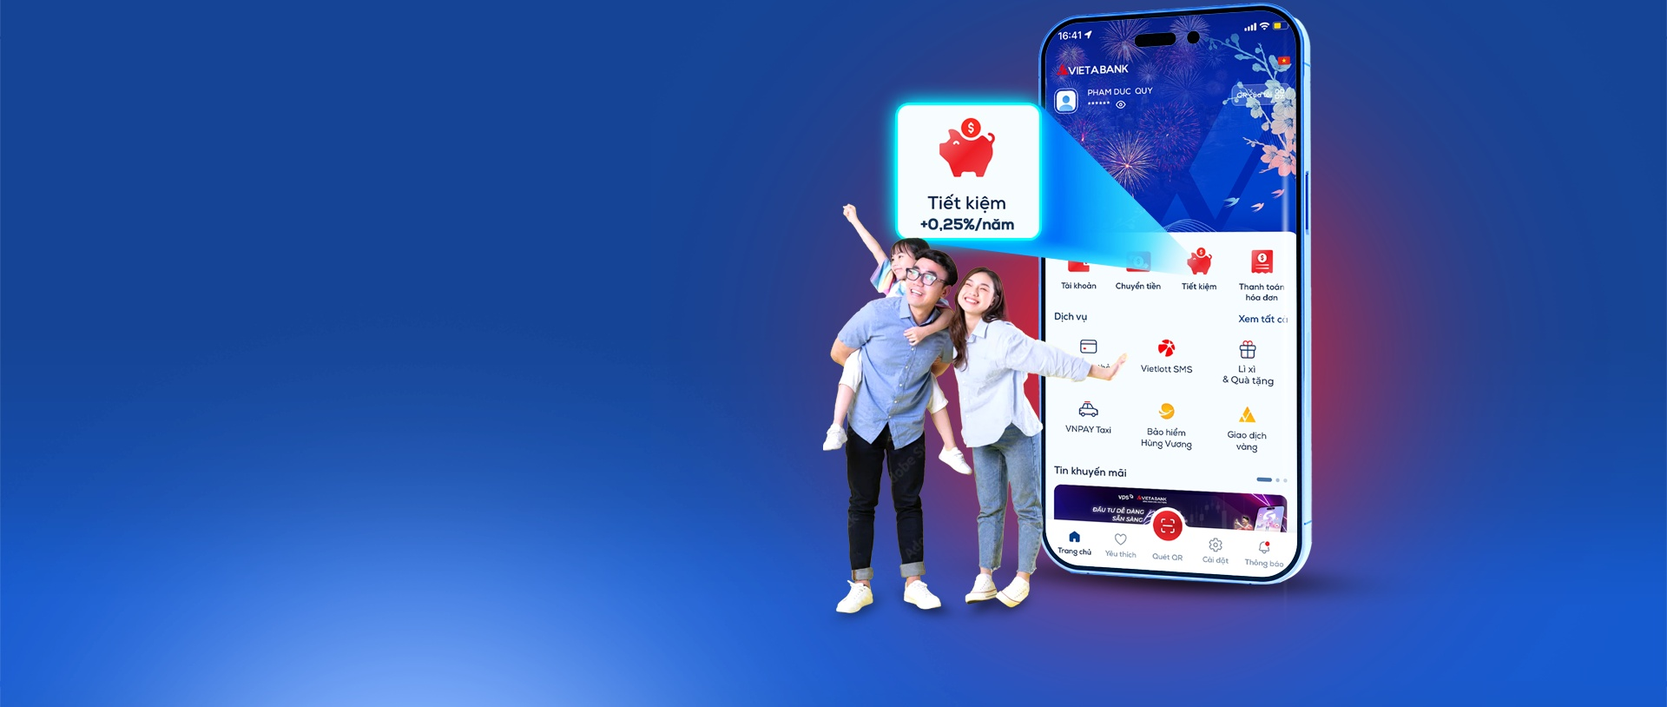
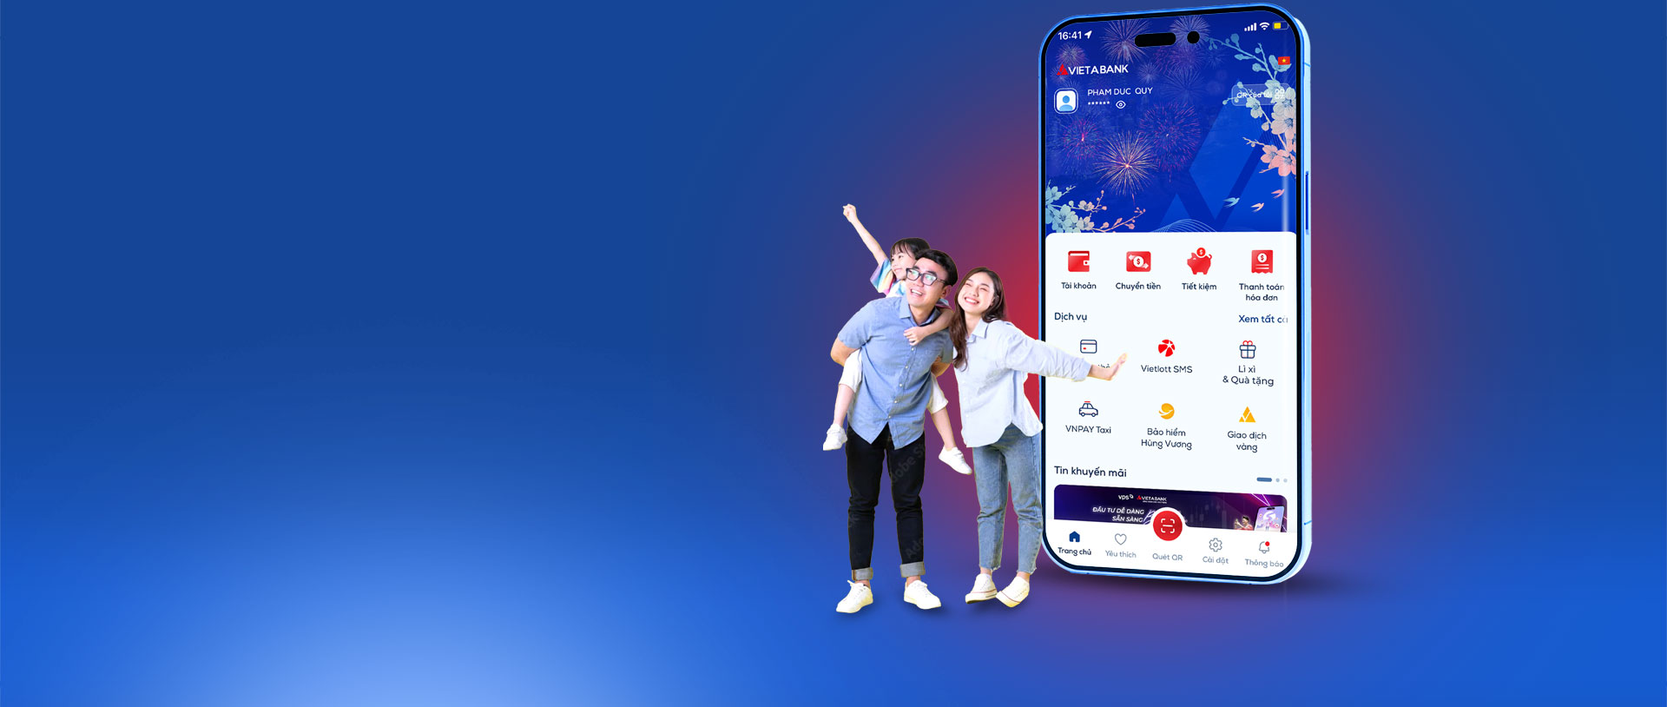
update

Changed region(s): [[0.5312, 0.0921, 0.7188, 0.3993], [0.75, 0.1536, 0.7812, 0.2457], [0.75, 0.0307, 0.7812, 0.0921]]

diff --git a/css/style.min.css b/css/style.min.css
@@ -1,1 +1,1 @@
-html,body,div,span,applet,object,iframe,h1,h2,h3,h4,h5,h6,p,blockquote,pre,a,abbr,acronym,address,big,cite,code,del,dfn,em,font,img,ins,kbd,q,s,samp,small,strike,strong,sub,sup,tt,var,b,u,i,center,dl,dt,dd,ol,ul,li,fieldset,form,label,legend,table,caption,tbody,tfoot,thead,tr,th,td{margin:0;padding:0;border:0;outline:0;font-size:100%;vertical-align:baseline;background:rgba(0,0,0,0)}body{line-height:1.3;color:#00003c}ol,ul{list-style:none}blockquote,q{quotes:none}blockquote:before,blockquote:after,q:before,q:after{content:"";content:none}:focus{outline:0}ins{text-decoration:none}del{text-decoration:line-through}table{border-collapse:collapse;border-spacing:0}a{text-decoration:none}.clearfix:after{content:".";display:block;clear:both;visibility:hidden;line-height:0;height:0}.clearfix{clear:both;display:block}html[xmlns] .clearfix{display:block}* html .clearfix{height:1%}*{box-sizing:border-box}.container{width:100%;padding:0 15px;margin:auto}@media only screen and (min-width: 576px){.container{max-width:540px}}@media only screen and (min-width: 768px){.container{max-width:720px}}@media only screen and (min-width: 992px){.container{max-width:960px}}@media only screen and (min-width: 1200px){.container{max-width:1290px}}html,body{font-size:15px;font-family:"SVN-Gilroy"}@media(max-width: 991px){html,body{font-size:13px}}@media(max-width: 575px){html,body{font-size:15px}}@media(max-width: 430px){html,body{font-size:14px}}input{font-family:"SVN-Gilroy"}@font-face{font-family:"SVN-Gilroy";src:url("../fonts/SVN-Gilroy.woff2") format("woff2"),url("../fonts/SVN-Gilroy.woff") format("woff");font-weight:normal;font-style:normal;font-display:swap}@font-face{font-family:"SVN-Gilroy";src:url("../fonts/SVN-GilroyItalic.woff2") format("woff2"),url("../fonts/SVN-GilroyItalic.woff") format("woff");font-weight:normal;font-style:italic;font-display:swap}@font-face{font-family:"SVN-Gilroy";src:url("../fonts/SVN-GilroyMedium.woff2") format("woff2"),url("../fonts/SVN-GilroyMedium.woff") format("woff");font-weight:500;font-style:normal;font-display:swap}@font-face{font-family:"SVN-Gilroy";src:url("../fonts/SVN-GilroyXBold.woff2") format("woff2"),url("../fonts/SVN-GilroyXBold.woff") format("woff");font-weight:bold;font-style:normal;font-display:swap}.button-1{background-color:red;text-transform:uppercase;color:#fff;padding:10px 30px;border-radius:55px;font-weight:bold;width:-moz-fit-content;width:fit-content;margin:0 auto;border:2px solid #00eaf3;box-shadow:0 0 10px 0 #00fffc;cursor:pointer}@media(max-width: 767px){.button-1{padding:7px 20px}}@keyframes opac{from{opacity:0}to{opacity:1}}@keyframes modalbox{0%{top:-250px;opacity:0}100%{top:0;opacity:1}}section[id]{scroll-margin-top:74px}.header{padding:20px 0;position:fixed;top:0;left:0;width:100%;transition:all .2s ease-in-out;z-index:2}.header.fixed{background-color:#004da9;box-shadow:0 0px 5px 0 #c3c3c3}.header__inner{display:flex;align-items:center;justify-content:space-between}.header__logo{width:100%;max-width:175px}.header__menu{display:flex;align-items:center;font-size:1.1rem;text-align:center}.header__item{padding:0 20px;color:#fff;transition:all .2s ease-in-out}.header__item.active,.header__item:hover{font-weight:600}.header__icon{display:none}.header img{width:100%;height:auto;display:block}@media(max-width: 1199px){.header__logo{max-width:135px}.header__menu{font-size:.9rem}.header__item{padding:0 15px}}@media(max-width: 991px){.header__logo{max-width:120px}.header__item{padding:0 8px}}@media(max-width: 767px){.header__logo{max-width:135px}.header__menu{position:fixed;top:0;right:0;background-color:#002f65;height:100vh;width:280px;flex-direction:column;text-align:left;font-size:1rem;overflow-y:auto;transform:translateX(100%);transition:all .5s ease-in-out;z-index:1}.header__menu.active{transform:translateX(0)}.header__item{display:block;width:100%;padding:10px}.header__item br{display:none}.header__icon{display:block;width:25px}}@media(max-width: 430px){.header__menu{width:230px}}.backdrop{background-color:#000;opacity:.5;width:100vw;height:100vh;position:fixed;top:0;left:0;display:none}.backdrop.show{display:block}.screen1{background:url("../images/page1-bg.jpg") no-repeat top;background-size:1920px;min-height:802px;padding-top:80px;display:flex;align-items:center}.screen1__box{width:45%;text-align:center}.screen1__sub{font-size:1.1rem;color:#fff}.screen1__sub span{font-weight:bold}.screen1__title{font-size:3rem;text-transform:uppercase;color:#fbdf84;font-weight:500;line-height:normal;margin-top:10px;margin-bottom:10px}.screen1__title span{font-weight:bold}.screen1__text{color:#fff;font-size:1.5rem;margin-bottom:15px;text-transform:uppercase}.screen1__text span{font-weight:bold}.screen1__note{font-style:italic;font-size:1rem;margin-top:5px}.screen1__light{display:flex;align-items:center;justify-content:center;margin:15px 0}.screen1__item{color:#1e4485;background-color:#fff;text-transform:uppercase;width:100%;max-width:200px;padding:8px 10px;margin:0 10px;text-align:center;font-weight:bold;border-radius:6px;box-shadow:0 0 10px 0 #00fffc}@media(max-width: 1199px){.screen1{background-size:1199px;min-height:501px}.screen1__title{font-size:2rem}}@media(max-width: 991px){.screen1{background-size:991px;min-height:414px}.screen1__box{width:50%}.screen1__title{margin-top:0px;margin-bottom:5px;font-size:1.7rem}.screen1__text{font-size:1.2rem;margin-bottom:5px}.screen1__sub br{display:none}}@media(max-width: 767px){.screen1{background-size:900px;min-height:376px}.screen1__box{width:55%}.screen1__title{font-size:1.2rem}.screen1__text{font-size:1.1rem}.screen1__item{margin:0 5px;padding:8px 5px}}@media(max-width: 575px){.screen1{background:url("../images/page1-mb-bg.jpg") no-repeat top;background-size:575px;min-height:701px;display:block;padding-top:70px}.screen1__box{width:100%;display:flex;flex-direction:column;height:620px}.screen1__title{font-size:2rem}.screen1__text{font-size:1.3rem}.screen1__note{margin-top:10px}.screen1__light{flex-wrap:wrap;width:50%;margin:50px 0 30px}.screen1__item{margin:5px 0;border-radius:55px;max-width:170px}.screen1__btn{width:50%}}@media(max-width: 430px){.screen1{background-size:430px;min-height:524px}.screen1__box{height:450px}}.screen2{background:url("../images/page2-bg.jpg") no-repeat top;background-size:1920px;min-height:538px;display:flex;align-items:center}.screen2__inner{display:flex;align-items:flex-start}.screen2__item{width:50%;margin:0 15px;border-radius:8px;border:2px solid #00eaf3;box-shadow:0 0 10px 0 #00fffc;overflow:hidden}.screen2__item:hover .screen2__top{background-color:#ec2028}.screen2__top{background-color:#154596;height:150px;display:flex;align-items:center;justify-content:center;transition:all .3s ease}.screen2__img{width:60%;margin:0 auto}.screen2__content{background-color:#fff;padding:20px}.screen2__title{font-size:1.1rem;color:#1e4485;font-weight:bold;text-transform:uppercase;text-align:center;margin-bottom:15px}.screen2__text{text-align:center;margin-bottom:20px}.screen2 img{width:100%;height:auto;display:block}@media(max-width: 1199px){.screen2{background-size:1199px;min-height:336px}.screen2__top{height:100px}.screen2__content{padding:10px}.screen2__title{margin-bottom:10px}.screen2__text{margin-bottom:10px}}@media(max-width: 991px){.screen2{background-size:991px;min-height:278px}.screen2__top{height:80px}}@media(max-width: 767px){.screen2{background-size:900px;min-height:252px}.screen2__title{margin-bottom:5px}.screen2__item{margin:0 5px}.screen2__top{height:60px}.screen2__content{padding:5px}.screen2__textMain{font-size:1.8rem}.screen2__textSide{font-size:1.5rem;padding-top:0}}@media(max-width: 575px){.screen2{background:url("../images/page2-mb-bg.jpg") no-repeat top;background-color:#005cca;background-size:575px;min-height:795px;display:block;padding-top:20px}.screen2__inner{flex-direction:column}.screen2__item{width:100%;margin:10px 0}.screen2__box{width:100%;margin-left:0;display:flex;flex-direction:column;justify-content:space-between;height:730px}.screen2__top{height:150px}.screen2__img{width:70%}.screen2__content{padding:15px}}@media(max-width: 430px){.screen2{background-size:430px;min-height:595px}.screen2__box{height:550px}.screen2__top{height:80px}.screen2__img{width:55%}.screen2__item{margin:6px 0}}.screen3{background:url("../images/page3-bg.jpg") no-repeat top;background-size:1920px;min-height:814px;display:flex;align-items:center}.screen3__box{width:45%;text-align:center}.screen3__sub{font-size:1.1rem;color:#fff;margin-bottom:30px}.screen3__sub span{font-weight:bold}.screen3__title{display:flex;align-items:flex-start;justify-content:center;margin:20px 0}.screen3__img{width:80%;margin:0 auto 15px}.screen3__text{margin-left:10px;text-align:left}.screen3__textMain{color:red;text-transform:uppercase;font-size:2.5rem}.screen3__textMain span{font-weight:bold}.screen3__textSide{font-size:2rem;padding-top:5px}.screen3__textSide span{font-weight:500}.screen3__list{display:flex;justify-content:center}.screen3__item{background-color:#fff;border-radius:8px;width:calc(33.3% - 10px);margin:0 5px;padding:10px;text-align:center;border:2px solid #00eaf3;box-shadow:0 0 10px 0 #00fffc}.screen3__item span{color:red;font-weight:bold}.screen3__btn{margin-top:40px}.screen3__note{font-style:italic;font-size:1rem;margin-top:10px}.screen3 img{width:100%;height:auto;display:block}@media(max-width: 1199px){.screen3{background-size:1199px;min-height:508px}.screen3__box{width:50%}.screen3__btn{margin-top:20px}}@media(max-width: 991px){.screen3{background-size:991px;min-height:420px}.screen3__title{margin:10px 0}.screen3__img{margin-bottom:5px}.screen3__item{padding:5px}.screen3__btn{margin-top:20px}.screen3__sub{margin-bottom:10px}}@media(max-width: 767px){.screen3{background-size:900px;min-height:344px}.screen3__sub{font-size:1rem;margin-bottom:5px}.screen3__title{margin:5px 0}.screen3__img{width:70%}.screen3__text{margin-left:5px}.screen3__textMain{font-size:1.8rem}.screen3__textSide{font-size:1.5rem;padding-top:0}.screen3__btn{margin-top:10px}.screen3__note{margin-top:5px}}@media(max-width: 575px){.screen3{background:url("../images/page3-mb-bg.jpg") no-repeat top;background-size:575px;min-height:1117px;display:block;padding-top:20px}.screen3__box{width:100%;display:flex;flex-direction:column;justify-content:space-between;height:1040px}.screen3__title{margin-top:20px}.screen3__text{margin-left:10px}.screen3__list{flex-wrap:wrap}.screen3__item{padding:10px;width:calc(50% - 10px);margin:5px}.screen3__btn{margin-top:50px}}@media(max-width: 430px){.screen3{background-size:430px;min-height:835px;padding-top:40px}.screen3__box{height:790px}.screen3__btn{margin-top:15px}}.screen4{background-image:url("../images/page4-bg.jpg");background-repeat:no-repeat;background-position:top;background-size:1920px;background-color:#f7eae4;height:765px;display:flex;align-items:center}.screen4__box{width:40%;text-align:center;margin-left:auto}.screen4__sub{font-size:1.1rem;color:#fff;margin-bottom:30px}.screen4__sub span{font-weight:bold}.screen4__title{display:flex;align-items:center;justify-content:center;margin:20px 0}.screen4__img{width:75%;margin:0 auto 15px}.screen4__text{margin-left:10px;text-align:left}.screen4__textMain{color:red;text-transform:uppercase;font-size:2.5rem}.screen4__textMain span{font-weight:bold}.screen4__textSide{font-size:2rem;padding-top:5px}.screen4__textSide span{font-weight:500}.screen4__list{display:flex;justify-content:center}.screen4__item{background-color:#fff;border-radius:8px;width:calc(33.3% - 10px);margin:0 5px;padding:10px;text-align:center;border:2px solid #00eaf3;box-shadow:0 0 10px 0 #00fffc}.screen4__item span{color:red;font-weight:bold}.screen4__btn{margin-top:40px}.screen4__note{font-style:italic;font-size:1rem;margin-top:10px}.screen4__slide{width:100%;height:100%}.screen4__slide .swiper{width:100%;height:100%}.screen4__child{background-size:1920px;background-repeat:no-repeat;background-position:top;height:100%;width:100%;display:flex;align-items:center}.screen4__child--1{background-image:url("../images/page41-bg.jpg")}.screen4__child--2{background-image:url("../images/page42-bg.jpg")}.screen4__child--3{background-image:url("../images/page43-bg.jpg")}.screen4__child--4{background-image:url("../images/page44-bg.jpg")}.screen4__child--5{background-image:url("../images/page45-bg.jpg")}.screen4__child--6{background-image:url("../images/page46-bg.jpg")}.screen4__child--7{background-image:url("../images/page47-bg.jpg")}.screen4__child .screen4__box{margin-left:0}.screen4__child .screen4__text{text-align:center}.screen4 img{width:100%;height:auto;display:block}@media(max-width: 1199px){.screen4{background-size:1199px;height:478px}.screen4.isActive{height:550px}.screen4__child{background-size:1199px}.screen4__box{width:45%}.screen4__btn{margin-top:20px}.screen4__img{width:60%}.screen4__sub{margin-bottom:10px}}@media(max-width: 991px){.screen4{background-size:991px;height:395px}.screen4.isActive{height:460px}.screen4__child{background-size:991px}.screen4__title{margin:10px 0}.screen4__box{width:50%}.screen4__img{margin-bottom:0}.screen4__item{padding:5px}.screen4__btn{margin-top:20px}}@media(max-width: 767px){.screen4{background-size:900px;height:359px}.screen4__child{background-size:900px}.screen4__sub{font-size:1rem}.screen4__title{margin:5px 0}.screen4__text{margin-left:5px}.screen4__textMain{font-size:1.8rem}.screen4__textSide{font-size:1.5rem;padding-top:0}.screen4__btn{margin-top:10px}.screen4__note{margin-top:5px}}@media(max-width: 575px){.screen4{background-image:url("../images/page4-mb-bg.jpg");background-size:575px;height:982px;display:block;padding-top:20px}.screen4.isActive{height:780px}.screen4.isActive .screen4__box{height:730px}.screen4__child{background-size:575px}.screen4__child--1{background-image:url("../images/page41-mb-bg.jpg")}.screen4__child--2{background-image:url("../images/page42-mb-bg.jpg")}.screen4__child--3{background-image:url("../images/page43-mb-bg.jpg")}.screen4__child--4{background-image:url("../images/page44-mb-bg.jpg")}.screen4__child--5{background-image:url("../images/page45-mb-bg.jpg")}.screen4__child--6{background-image:url("../images/page46-mb-bg.jpg")}.screen4__child--7{background-image:url("../images/page47-mb-bg.jpg")}.screen4__box{width:100%;display:flex;flex-direction:column;justify-content:space-between;height:897px}.screen4__title{margin-top:20px}.screen4__img{margin-bottom:10px}.screen4__text{margin-left:10px}.screen4__list{flex-wrap:wrap}.screen4__item{padding:10px;width:calc(50% - 10px);margin:5px}.screen4__btn{margin-top:50px}.screen4__note{margin-top:10px}}@media(max-width: 430px){.screen4{background-size:430px;height:734px;padding-top:40px}.screen4.isActive{height:780px}.screen4.isActive .screen4__box{height:720px}.screen4__child{background-size:430px}.screen4__box{height:690px}.screen4__btn{margin-top:15px}}.screen6{background:url("../images/page6-bg.jpg") no-repeat top;background-size:1920px;min-height:726px;display:flex;align-items:center}.screen6__box{width:50%;margin-right:auto}.screen6__wrapper{width:70%;margin:0 auto}.screen6__sub{font-size:1.1rem;margin-bottom:10px;color:#fff;text-align:center}.screen6__sub span{font-weight:bold}.screen6__title{font-size:2rem;text-transform:uppercase;color:#fbdf84;font-weight:500;line-height:normal;margin-top:10px;margin-bottom:10px;text-align:center}.screen6__title span{font-weight:bold}.screen6__text{text-align:center;justify-content:center;font-weight:bold;color:#fff;font-size:1.2rem;margin-bottom:10px}.screen6__form{margin-top:10px}.screen6 .form-group{margin-bottom:10px}.screen6__input{width:100%;border:1px solid #d8d8d8;padding:10px 10px;border-radius:55px;box-shadow:0 0 0 0 #ccc;font-size:1rem}.screen6__submit input{width:100%;border:none;font-size:1rem}@media(max-width: 1199px){.screen6{background-size:1199px;min-height:453px}.screen6__wrapper{width:75%}.screen6__sub{font-size:1rem;margin-bottom:5px}.screen6__title{font-size:1.5rem;margin-top:0;margin-bottom:5px}}@media(max-width: 991px){.screen6{background-size:991px;min-height:375px}.screen6__box{width:60%}.screen6__sub{margin-bottom:0}.screen6__form{margin-top:5px}.screen6 .form-group{margin-bottom:5px}.screen6__input{padding:7px 10px}}@media(max-width: 767px){.screen6{background-size:970px;min-height:367px}.screen6__wrapper{width:100%}.screen6__sub{font-size:1rem}.screen6__textMain{font-size:1.8rem}.screen6__textSide{font-size:1.3rem}}@media(max-width: 575px){.screen6{background:url("../images/page6-mb-bg.jpg") no-repeat top;background-size:575px;padding:20px 0}.screen6__box{width:100%}.screen6__sub{font-size:1.1rem;text-align:center}.screen6__title{margin-top:10px;margin-bottom:10px;text-align:center}}.footer{background:url("../images/footer.jpg") no-repeat top #d31f28;background-size:1920px;padding-top:30px;padding-bottom:20px;color:#fff}.footer__inner{display:flex;align-items:flex-end;justify-content:space-between}.footer__logo{width:100%;max-width:300px}.footer__bold{font-weight:bold}.footer p.footer__bold{text-transform:uppercase}.footer__info{margin-top:30px}.footer__info>p{margin-bottom:10px}.footer__info>p:first-child{margin-bottom:20px}.footer__link{margin:0 5px;display:block}.footer__link img{width:40px !important;height:auto}.footer img{width:100%;height:auto;display:block}@media(max-width: 1199px){.footer{background-size:1199px}}@media(max-width: 991px){.footer{background-size:991px;padding-top:15px;padding-bottom:15px}.footer__logo{max-width:155px}.footer__info{margin-top:10px}.footer__info>p{margin-bottom:2px}.footer__link img{width:20px !important}}@media(max-width: 767px){.footer{background-size:1024px;padding-top:30px;padding-bottom:10px}.footer__logo{max-width:135px}}@media(max-width: 575px){.footer{background-size:1280px;background-position:20% top;padding-bottom:20px}.footer__logo{max-width:185px}.footer__inner--1{flex-direction:column;justify-content:flex-start;align-items:flex-start;gap:5px}}.modal{display:flex;justify-content:center;align-items:center;position:fixed;width:100%;height:100%;left:0;top:0;background:rgba(0,0,0,.7);overflow:auto;animation:opac .3s;z-index:900}.modal__bg{content:"";display:block;position:fixed;width:100%;height:100%;top:0;left:0;transition:.6s;z-index:99}.modal__box{position:relative;max-width:400px;width:100%;margin:0 15px;z-index:900;animation-name:modalbox;animation-duration:.4s;animation-timing-function:cubic-bezier(0, 0, 0.3, 1.6);background-color:#fff;border-radius:12px;border:2px solid #00eaf3;box-shadow:0 0 10px 0 #00fffc;overflow:hidden}.modal__close{font-size:1.5rem;font-weight:700;line-height:1;color:#fff;text-shadow:0 1px 0 #fff;padding-right:5px;float:right;cursor:pointer}.modal__form{padding:15px}.modal .form-group{margin-bottom:10px}.modal__input{width:100%;border:1px solid #d8d8d8;padding:10px 10px;border-radius:55px;box-shadow:0 0 0 0 #ccc;font-size:1rem}.modal__submit input{width:100%;border:none;font-size:1rem}.modal__title{background-color:#154596;text-align:center;color:#fff;padding:10px}.modal__title .title__main{color:#fbdf84;text-transform:uppercase;font-weight:bold;font-size:1.1rem;margin-bottom:5px}.modal__title .title__sub{font-size:1.5rem;text-transform:uppercase}.modal__title .title__sub span{font-weight:bold}.modal img{width:100%;height:auto;display:block}
+html,body,div,span,applet,object,iframe,h1,h2,h3,h4,h5,h6,p,blockquote,pre,a,abbr,acronym,address,big,cite,code,del,dfn,em,font,img,ins,kbd,q,s,samp,small,strike,strong,sub,sup,tt,var,b,u,i,center,dl,dt,dd,ol,ul,li,fieldset,form,label,legend,table,caption,tbody,tfoot,thead,tr,th,td{margin:0;padding:0;border:0;outline:0;font-size:100%;vertical-align:baseline;background:rgba(0,0,0,0)}body{line-height:1.3;color:#00003c}ol,ul{list-style:none}blockquote,q{quotes:none}blockquote:before,blockquote:after,q:before,q:after{content:"";content:none}:focus{outline:0}ins{text-decoration:none}del{text-decoration:line-through}table{border-collapse:collapse;border-spacing:0}a{text-decoration:none}.clearfix:after{content:".";display:block;clear:both;visibility:hidden;line-height:0;height:0}.clearfix{clear:both;display:block}html[xmlns] .clearfix{display:block}* html .clearfix{height:1%}*{box-sizing:border-box}.container{width:100%;padding:0 15px;margin:auto;position:relative}@media only screen and (min-width: 576px){.container{max-width:540px}}@media only screen and (min-width: 768px){.container{max-width:720px}}@media only screen and (min-width: 992px){.container{max-width:960px}}@media only screen and (min-width: 1200px){.container{max-width:1290px}}html,body{font-size:15px;font-family:"SVN-Gilroy"}@media(max-width: 991px){html,body{font-size:13px}}@media(max-width: 575px){html,body{font-size:15px}}@media(max-width: 430px){html,body{font-size:14px}}input{font-family:"SVN-Gilroy"}@font-face{font-family:"SVN-Gilroy";src:url("../fonts/SVN-Gilroy.woff2") format("woff2"),url("../fonts/SVN-Gilroy.woff") format("woff");font-weight:normal;font-style:normal;font-display:swap}@font-face{font-family:"SVN-Gilroy";src:url("../fonts/SVN-GilroyItalic.woff2") format("woff2"),url("../fonts/SVN-GilroyItalic.woff") format("woff");font-weight:normal;font-style:italic;font-display:swap}@font-face{font-family:"SVN-Gilroy";src:url("../fonts/SVN-GilroyMedium.woff2") format("woff2"),url("../fonts/SVN-GilroyMedium.woff") format("woff");font-weight:500;font-style:normal;font-display:swap}@font-face{font-family:"SVN-Gilroy";src:url("../fonts/SVN-GilroyXBold.woff2") format("woff2"),url("../fonts/SVN-GilroyXBold.woff") format("woff");font-weight:bold;font-style:normal;font-display:swap}.button-1{background-color:red;text-transform:uppercase;color:#fff;padding:10px 30px;border-radius:55px;font-weight:bold;width:-moz-fit-content;width:fit-content;margin:0 auto;border:2px solid #00eaf3;box-shadow:0 0 10px 0 #00fffc;cursor:pointer;animation:zoomIn 1.5s infinite ease}@media(max-width: 767px){.button-1{padding:7px 20px}}@keyframes opac{from{opacity:0}to{opacity:1}}@keyframes modalbox{0%{top:-250px;opacity:0}100%{top:0;opacity:1}}@keyframes zoomIn{from{transform:scale(1)}50%{transform:scale(1.1)}to{transform:scale(1)}}section[id]{scroll-margin-top:74px}.header{padding:20px 0;position:fixed;top:0;left:0;width:100%;transition:all .2s ease-in-out;z-index:2}.header.fixed{background-color:#004da9;box-shadow:0 0px 5px 0 #c3c3c3}.header__inner{display:flex;align-items:center;justify-content:space-between}.header__logo{width:100%;max-width:175px}.header__menu{display:flex;align-items:center;font-size:1.1rem;text-align:center}.header__item{padding:0 20px;color:#fff;transition:all .2s ease-in-out}.header__item.active,.header__item:hover{font-weight:600}.header__icon{display:none}.header img{width:100%;height:auto;display:block}@media(max-width: 1199px){.header__logo{max-width:135px}.header__menu{font-size:.9rem}.header__item{padding:0 15px}}@media(max-width: 991px){.header__logo{max-width:120px}.header__item{padding:0 8px}}@media(max-width: 767px){.header__logo{max-width:135px}.header__menu{position:fixed;top:0;right:0;background-color:#002f65;height:100vh;width:280px;flex-direction:column;text-align:left;font-size:1rem;overflow-y:auto;transform:translateX(100%);transition:all .5s ease-in-out;z-index:1}.header__menu.active{transform:translateX(0)}.header__item{display:block;width:100%;padding:10px}.header__item br{display:none}.header__icon{display:block;width:25px}}@media(max-width: 430px){.header__menu{width:230px}}.backdrop{background-color:#000;opacity:.5;width:100vw;height:100vh;position:fixed;top:0;left:0;display:none}.backdrop.show{display:block}.screen1{background:url("../images/page1-bg.jpg") no-repeat top;background-size:1920px;min-height:802px;padding-top:80px;display:flex;align-items:center}.screen1__box{width:45%;text-align:center}.screen1__sub{font-size:1.1rem;color:#fff}.screen1__sub span{font-weight:bold}.screen1__title{font-size:3rem;text-transform:uppercase;color:#fbdf84;font-weight:500;line-height:normal;margin-top:10px;margin-bottom:10px}.screen1__title span{font-weight:bold}.screen1__text{color:#fff;font-size:1.5rem;margin-bottom:20px;text-transform:uppercase}.screen1__text span{font-weight:bold}.screen1__note{font-style:italic;font-size:1rem;margin-top:5px}.screen1__light{display:flex;align-items:center;justify-content:center;margin:15px 0}.screen1__item{color:#1e4485;background-color:#fff;text-transform:uppercase;width:100%;max-width:200px;padding:8px 10px;margin:0 10px;text-align:center;font-weight:bold;border-radius:6px;box-shadow:0 0 10px 0 #00fffc}@media(max-width: 1199px){.screen1{background-size:1199px;min-height:501px}.screen1__title{font-size:2rem}}@media(max-width: 991px){.screen1{background-size:991px;min-height:414px}.screen1__box{width:50%}.screen1__title{margin-top:0px;margin-bottom:5px;font-size:1.7rem}.screen1__text{font-size:1.2rem;margin-bottom:5px}.screen1__sub br{display:none}}@media(max-width: 767px){.screen1{background-size:900px;min-height:376px}.screen1__box{width:55%}.screen1__title{font-size:1.2rem}.screen1__text{font-size:1.1rem}.screen1__item{margin:0 5px;padding:8px 5px}}@media(max-width: 575px){.screen1{background:url("../images/page1-mb-bg.jpg") no-repeat top;background-size:575px;min-height:701px;display:block;padding-top:70px}.screen1__box{width:100%;display:flex;flex-direction:column;height:620px}.screen1__title{font-size:2rem}.screen1__text{font-size:1.3rem}.screen1__note{margin-top:10px}.screen1__light{flex-wrap:wrap;width:50%;margin:50px 0 30px}.screen1__item{margin:5px 0;max-width:170px}.screen1__btn{width:50%}}@media(max-width: 430px){.screen1{background-size:430px;min-height:524px}.screen1__box{height:450px}}.screen2{background:url("../images/page2-bg.jpg") no-repeat top;background-size:1920px;min-height:538px;display:flex;align-items:center}.screen2__inner{display:flex;align-items:flex-start}.screen2__item{width:50%;margin:0 15px;border-radius:8px;border:2px solid #00eaf3;box-shadow:0 0 10px 0 #00fffc;overflow:hidden}.screen2__item:hover .screen2__top{background-color:#ec2028}.screen2__top{background-color:#154596;height:150px;display:flex;align-items:center;justify-content:center;transition:all .3s ease}.screen2__img{width:60%;margin:0 auto}.screen2__content{background-color:#fff;padding:20px}.screen2__title{font-size:1.1rem;color:#1e4485;font-weight:bold;text-transform:uppercase;text-align:center;margin-bottom:15px}.screen2__text{text-align:center;margin-bottom:20px}.screen2 img{width:100%;height:auto;display:block}@media(max-width: 1199px){.screen2{background-size:1199px;min-height:336px}.screen2__top{height:100px}.screen2__content{padding:10px}.screen2__title{margin-bottom:10px}.screen2__text{margin-bottom:10px}}@media(max-width: 991px){.screen2{background-size:991px;min-height:278px}.screen2__top{height:80px}}@media(max-width: 767px){.screen2{background-size:900px;min-height:252px}.screen2__title{margin-bottom:5px}.screen2__item{margin:0 5px}.screen2__top{height:60px}.screen2__content{padding:5px}.screen2__textMain{font-size:1.8rem}.screen2__textSide{font-size:1.5rem;padding-top:0}}@media(max-width: 575px){.screen2{background:url("../images/page2-mb-bg.jpg") no-repeat top;background-color:#005cca;background-size:575px;min-height:795px;display:block;padding-top:20px}.screen2__inner{flex-direction:column}.screen2__item{width:100%;margin:10px 0}.screen2__box{width:100%;margin-left:0;display:flex;flex-direction:column;justify-content:space-between;height:730px}.screen2__top{height:150px}.screen2__img{width:70%}.screen2__content{padding:15px}}@media(max-width: 430px){.screen2{background-size:430px;min-height:595px}.screen2__box{height:550px}.screen2__top{height:80px}.screen2__img{width:55%}.screen2__item{margin:6px 0}}.screen3{background:url("../images/page3-bg.jpg?v=1") no-repeat top;background-size:1920px;min-height:814px;display:flex;align-items:center}.screen3__box{width:45%;text-align:center}.screen3__sub{font-size:1.1rem;color:#fff;margin-bottom:30px}.screen3__sub span{font-weight:bold}.screen3__title{display:flex;align-items:flex-start;justify-content:center;margin:20px 0}.screen3__img{width:80%;margin:0 auto 15px}.screen3__text{margin-left:10px;text-align:left}.screen3__textMain{color:red;text-transform:uppercase;font-size:2.5rem}.screen3__textMain span{font-weight:bold}.screen3__textSide{font-size:2rem;padding-top:5px}.screen3__textSide span{font-weight:500}.screen3__list{display:flex;justify-content:center}.screen3__item{background-color:#fff;border-radius:8px;width:calc(33.3% - 10px);margin:0 5px;padding:10px;text-align:center;border:2px solid #00eaf3;box-shadow:0 0 10px 0 #00fffc}.screen3__item span{color:red;font-weight:bold}.screen3__btn{margin-top:40px}.screen3__note{font-style:italic;font-size:1rem;margin-top:10px}.screen3__percent{width:280px;position:absolute;right:220px;top:-35px;animation:zoomIn 1s infinite ease;transform-origin:right}.screen3 img{width:100%;height:auto;display:block}@media(max-width: 1199px){.screen3{background-size:1199px;min-height:508px}.screen3__box{width:50%}.screen3__btn{margin-top:20px}.screen3__percent{width:200px;top:60px}}@media(max-width: 991px){.screen3{background-size:991px;min-height:420px}.screen3__title{margin:10px 0}.screen3__img{margin-bottom:5px}.screen3__item{padding:5px}.screen3__btn{margin-top:20px}.screen3__sub{margin-bottom:10px}.screen3__percent{width:150px;top:42px;right:150px}}@media(max-width: 767px){.screen3{background-size:900px;min-height:344px}.screen3__sub{font-size:1rem;margin-bottom:5px}.screen3__title{margin:5px 0}.screen3__img{width:70%}.screen3__text{margin-left:5px}.screen3__textMain{font-size:1.8rem}.screen3__textSide{font-size:1.5rem;padding-top:0}.screen3__btn{margin-top:10px}.screen3__note{margin-top:5px}.screen3__percent{right:70px}}@media(max-width: 575px){.screen3{background:url("../images/page3-mb-bg.jpg?v=1") no-repeat top;background-size:575px;min-height:1117px;display:block;padding-top:20px}.screen3__box{width:100%;display:flex;flex-direction:column;justify-content:space-between;height:1040px}.screen3__title{margin-top:20px}.screen3__text{margin-left:10px}.screen3__list{flex-wrap:wrap}.screen3__item{padding:10px;width:calc(50% - 10px);margin:5px}.screen3__btn{margin-top:50px}.screen3__percent{width:200px;top:320px;right:31%}}@media(max-width: 430px){.screen3{background-size:430px;min-height:835px;padding-top:40px}.screen3__box{height:790px}.screen3__btn{margin-top:15px}.screen3__percent{width:150px;top:220px;right:31%}}.screen4{background-image:url("../images/page4-bg.jpg");background-repeat:no-repeat;background-position:top;background-size:1920px;background-color:#f7eae4;height:765px;display:flex;align-items:center}.screen4__box{width:40%;text-align:center;margin-left:auto}.screen4__sub{font-size:1.1rem;color:#fff;margin-bottom:30px}.screen4__sub span{font-weight:bold}.screen4__title{display:flex;align-items:center;justify-content:center;margin:20px 0}.screen4__img{width:75%;margin:0 auto 15px}.screen4__text{margin-left:10px;text-align:left}.screen4__textMain{color:red;text-transform:uppercase;font-size:2.5rem}.screen4__textMain span{font-weight:bold}.screen4__textSide{font-size:2rem;padding-top:5px}.screen4__textSide span{font-weight:500}.screen4__list{display:flex;justify-content:center}.screen4__item{background-color:#fff;border-radius:8px;width:calc(33.3% - 10px);margin:0 5px;padding:10px;text-align:center;border:2px solid #00eaf3;box-shadow:0 0 10px 0 #00fffc}.screen4__item span{color:red;font-weight:bold}.screen4__btn{margin-top:40px}.screen4__note{font-style:italic;font-size:1rem;margin-top:10px}.screen4__slide{width:100%;height:100%}.screen4__slide .swiper{width:100%;height:100%}.screen4__child{background-size:1920px;background-repeat:no-repeat;background-position:top;height:100%;width:100%;display:flex;align-items:center}.screen4__child--1{background-image:url("../images/page41-bg.jpg")}.screen4__child--2{background-image:url("../images/page42-bg.jpg")}.screen4__child--3{background-image:url("../images/page43-bg.jpg")}.screen4__child--4{background-image:url("../images/page44-bg.jpg")}.screen4__child--5{background-image:url("../images/page45-bg.jpg")}.screen4__child--6{background-image:url("../images/page46-bg.jpg")}.screen4__child--7{background-image:url("../images/page47-bg.jpg")}.screen4__child .screen4__box{margin-left:0}.screen4__child .screen4__text{text-align:center}.screen4 img{width:100%;height:auto;display:block}@media(max-width: 1199px){.screen4{background-size:1199px;height:478px}.screen4.isActive{height:550px}.screen4__child{background-size:1199px}.screen4__box{width:45%}.screen4__btn{margin-top:20px}.screen4__img{width:60%}.screen4__sub{margin-bottom:10px}}@media(max-width: 991px){.screen4{background-size:991px;height:395px}.screen4.isActive{height:460px}.screen4__child{background-size:991px}.screen4__title{margin:10px 0}.screen4__box{width:50%}.screen4__img{margin-bottom:0}.screen4__item{padding:5px}.screen4__btn{margin-top:20px}}@media(max-width: 767px){.screen4{background-size:900px;height:359px}.screen4__child{background-size:900px}.screen4__sub{font-size:1rem}.screen4__title{margin:5px 0}.screen4__text{margin-left:5px}.screen4__textMain{font-size:1.8rem}.screen4__textSide{font-size:1.5rem;padding-top:0}.screen4__btn{margin-top:10px}.screen4__note{margin-top:5px}}@media(max-width: 575px){.screen4{background-image:url("../images/page4-mb-bg.jpg");background-size:575px;height:982px;display:block;padding-top:20px}.screen4.isActive{height:780px}.screen4.isActive .screen4__box{height:730px}.screen4__child{background-size:575px}.screen4__child--1{background-image:url("../images/page41-mb-bg.jpg")}.screen4__child--2{background-image:url("../images/page42-mb-bg.jpg")}.screen4__child--3{background-image:url("../images/page43-mb-bg.jpg")}.screen4__child--4{background-image:url("../images/page44-mb-bg.jpg")}.screen4__child--5{background-image:url("../images/page45-mb-bg.jpg")}.screen4__child--6{background-image:url("../images/page46-mb-bg.jpg")}.screen4__child--7{background-image:url("../images/page47-mb-bg.jpg")}.screen4__box{width:100%;display:flex;flex-direction:column;justify-content:space-between;height:897px}.screen4__title{margin-top:20px}.screen4__img{margin-bottom:10px}.screen4__text{margin-left:10px}.screen4__list{flex-wrap:wrap}.screen4__item{padding:10px;width:calc(50% - 10px);margin:5px}.screen4__btn{margin-top:50px}.screen4__note{margin-top:10px}}@media(max-width: 430px){.screen4{background-size:430px;height:734px;padding-top:40px}.screen4.isActive{height:780px}.screen4.isActive .screen4__box{height:720px}.screen4__child{background-size:430px}.screen4__box{height:690px}.screen4__btn{margin-top:15px}}.screen6{background:url("../images/page6-bg.jpg") no-repeat top;background-size:1920px;min-height:726px;display:flex;align-items:center}.screen6__box{width:50%;margin-right:auto}.screen6__wrapper{width:70%;margin:0 auto}.screen6__sub{font-size:1.1rem;margin-bottom:10px;color:#fff;text-align:center}.screen6__sub span{font-weight:bold}.screen6__title{font-size:2rem;text-transform:uppercase;color:#fbdf84;font-weight:500;line-height:normal;margin-top:10px;margin-bottom:10px;text-align:center}.screen6__title span{font-weight:bold}.screen6__text{text-align:center;justify-content:center;font-weight:bold;color:#fff;font-size:1.2rem;margin-bottom:10px}.screen6__form{margin-top:10px}.screen6 .form-group{margin-bottom:10px}.screen6__input{width:100%;border:1px solid #d8d8d8;padding:10px 10px;border-radius:55px;box-shadow:0 0 0 0 #ccc;font-size:1rem}.screen6__submit input{width:100%;border:none;font-size:1rem;animation:unset}@media(max-width: 1199px){.screen6{background-size:1199px;min-height:453px}.screen6__wrapper{width:75%}.screen6__sub{font-size:1rem;margin-bottom:5px}.screen6__title{font-size:1.5rem;margin-top:0;margin-bottom:5px}}@media(max-width: 991px){.screen6{background-size:991px;min-height:375px}.screen6__box{width:60%}.screen6__sub{margin-bottom:0}.screen6__form{margin-top:5px}.screen6 .form-group{margin-bottom:5px}.screen6__input{padding:7px 10px}}@media(max-width: 767px){.screen6{background-size:970px;min-height:367px}.screen6__wrapper{width:100%}.screen6__sub{font-size:1rem}.screen6__textMain{font-size:1.8rem}.screen6__textSide{font-size:1.3rem}}@media(max-width: 575px){.screen6{background:url("../images/page6-mb-bg.jpg") no-repeat top;background-size:575px;padding:20px 0}.screen6__box{width:100%}.screen6__sub{font-size:1.1rem;text-align:center}.screen6__title{margin-top:10px;margin-bottom:10px;text-align:center}}.footer{background:url("../images/footer.jpg") no-repeat top #d31f28;background-size:1920px;padding-top:30px;padding-bottom:20px;color:#fff}.footer__inner{display:flex;align-items:flex-end;justify-content:space-between}.footer__logo{width:100%;max-width:300px}.footer__bold{font-weight:bold}.footer p.footer__bold{text-transform:uppercase}.footer__info{margin-top:30px}.footer__info>p{margin-bottom:10px}.footer__info>p:first-child{margin-bottom:20px}.footer__link{margin:0 5px;display:block}.footer__link img{width:40px !important;height:auto}.footer img{width:100%;height:auto;display:block}@media(max-width: 1199px){.footer{background-size:1199px}}@media(max-width: 991px){.footer{background-size:991px;padding-top:15px;padding-bottom:15px}.footer__logo{max-width:155px}.footer__info{margin-top:10px}.footer__info>p{margin-bottom:2px}.footer__link img{width:20px !important}}@media(max-width: 767px){.footer{background-size:1024px;padding-top:30px;padding-bottom:10px}.footer__logo{max-width:135px}}@media(max-width: 575px){.footer{background-size:1280px;background-position:20% top;padding-bottom:20px}.footer__logo{max-width:185px}.footer__inner--1{flex-direction:column;justify-content:flex-start;align-items:flex-start;gap:5px}}.modal{display:flex;justify-content:center;align-items:center;position:fixed;width:100%;height:100%;left:0;top:0;background:rgba(0,0,0,.7);overflow:auto;animation:opac .3s;z-index:900}.modal__bg{content:"";display:block;position:fixed;width:100%;height:100%;top:0;left:0;transition:.6s;z-index:99}.modal__box{position:relative;max-width:400px;width:100%;margin:0 15px;z-index:900;animation-name:modalbox;animation-duration:.4s;animation-timing-function:cubic-bezier(0, 0, 0.3, 1.6);background-color:#fff;border-radius:12px;border:2px solid #00eaf3;box-shadow:0 0 10px 0 #00fffc;overflow:hidden}.modal__close{font-size:1.5rem;font-weight:700;line-height:1;color:#fff;text-shadow:0 1px 0 #fff;padding-right:5px;float:right;cursor:pointer}.modal__form{padding:15px}.modal .form-group{margin-bottom:10px}.modal__input{width:100%;border:1px solid #d8d8d8;padding:10px 10px;border-radius:55px;box-shadow:0 0 0 0 #ccc;font-size:1rem}.modal__submit input{width:100%;border:none;font-size:1rem}.modal__title{background-color:#154596;text-align:center;color:#fff;padding:10px}.modal__title .title__main{color:#fbdf84;text-transform:uppercase;font-weight:bold;font-size:1.1rem;margin-bottom:5px}.modal__title .title__sub{font-size:1.5rem;text-transform:uppercase}.modal__title .title__sub span{font-weight:bold}.modal img{width:100%;height:auto;display:block}

diff --git a/css/style.scss b/css/style.scss
@@ -152,7 +152,7 @@
   &__text {
     color: #fff;
     font-size: 1.5rem;
-    margin-bottom: 15px;
+    margin-bottom: 20px;
     text-transform: uppercase;
     span {
       font-weight: bold;
@@ -255,7 +255,6 @@
     }
     &__item{
       margin: 5px 0;
-      border-radius: 55px;
       max-width: 170px;
     }
     &__btn{
@@ -443,7 +442,7 @@
 }
 
 .screen3 {
-  background: url("../images/page3-bg.jpg") no-repeat top;
+  background: url("../images/page3-bg.jpg?v=1") no-repeat top;
   background-size: 1920px;
   min-height: 814px;
   display: flex;
@@ -515,6 +514,14 @@
     font-size: 1rem;
     margin-top: 10px;
   }
+  &__percent{
+    width: 280px;
+    position: absolute;
+    right: 220px;
+    top: -35px;
+    animation: zoomIn 1s infinite ease;
+    transform-origin: right;
+  }
   img {
     width: 100%;
     height: auto;
@@ -528,6 +535,10 @@
     }
     &__btn {
       margin-top: 20px;
+    }
+    &__percent{
+      width: 200px;
+      top: 60px;
     }
   }
   @media (max-width: 991px) {
@@ -547,6 +558,11 @@
     }
     &__sub{
       margin-bottom: 10px;
+    }
+    &__percent{
+      width: 150px;
+      top: 42px;
+      right: 150px;
     }
   }
   @media (max-width: 767px) {
@@ -578,9 +594,12 @@
     &__note {
       margin-top: 5px;
     }
+    &__percent{
+      right: 70px;
+    }
   }
   @media (max-width: 575px) {
-    background: url("../images/page3-mb-bg.jpg") no-repeat top;
+    background: url("../images/page3-mb-bg.jpg?v=1") no-repeat top;
     background-size: 575px;
     min-height: 1117px;
     display: block;
@@ -609,6 +628,11 @@
     &__btn {
       margin-top: 50px;
     }
+    &__percent{
+      width: 200px;
+      top: 320px;
+      right: 31%;
+    }
   }
   @media (max-width: 430px) {
     background-size: 430px;
@@ -619,6 +643,11 @@
     }
     &__btn {
       margin-top: 15px;
+    }
+    &__percent{
+      width: 150px;
+      top: 220px;
+      right: 31%;
     }
   }
 }
@@ -981,6 +1010,7 @@
       width: 100%;
       border: none;
       font-size: 1rem;
+      animation: unset;
     }
   }
   @media (max-width: 1199px) {

diff --git a/index.html b/index.html
@@ -6,7 +6,7 @@
     <meta name="viewport" content="width=device-width, initial-scale=1.0">
     <title>VIETABANK</title>
     <link rel="stylesheet" href="https://cdnjs.cloudflare.com/ajax/libs/Swiper/11.0.5/swiper-bundle.css">
-    <link rel="stylesheet" href="css/style.min.css?v=4">
+    <link rel="stylesheet" href="css/style.min.css?v=5">
 </head>
 
 <body>
@@ -100,7 +100,6 @@
                 </div>
                 <div>
                     <div class="screen3__sub">
-                        
                         Ưu điểm khi lựa chọn sản phẩm <span>"Tiết Kiệm Đắc Lộc":</span> </div>
                     <div class="screen3__list">
                         <div class="screen3__item">
@@ -121,6 +120,7 @@
                     </div>
                 </div>
             </div>
+            <div class="screen3__percent"><img src="images/page3-p1.png" alt=""></div>
         </div>
     </section>
 

diff --git a/css/_reset.scss b/css/_reset.scss
@@ -135,6 +135,7 @@ html[xmlns] .clearfix {
   width: 100%;
   padding: 0 15px;
   margin: auto;
+  position: relative;
 }
 
 @media only screen and (min-width: 576px) {
@@ -220,6 +221,7 @@ input{
   border: 2px solid #00eaf3;
   box-shadow: 0 0 10px 0 #00fffc;
   cursor: pointer;
+  animation: zoomIn 1.5s infinite ease;
   @media (max-width: 767px){
     padding: 7px 20px;
   }
@@ -244,6 +246,18 @@ input{
   100% {
       top: 0;
       opacity: 1
+  }
+}
+
+@keyframes zoomIn {
+  from{
+    transform: scale(1);
+  }
+  50%{
+    transform: scale(1.1);
+  }
+  to{
+    transform: scale(1);
   }
 }
 
